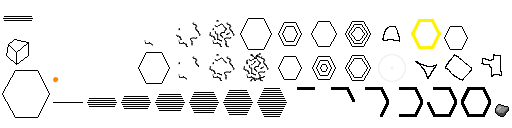
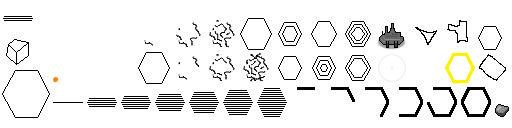
New mine graphic

Changed region(s): [[0.7188, 0.125, 0.9375, 0.4062], [0.8125, 0.375, 1.0, 0.6562], [0.9375, 0.1875, 0.9688, 0.2188]]

diff --git a/core/src/info/quadtree/ld42/Hex.java b/core/src/info/quadtree/ld42/Hex.java
@@ -6,7 +6,6 @@ import com.badlogic.gdx.graphics.Color;
 import com.badlogic.gdx.graphics.g2d.GlyphLayout;
 import com.badlogic.gdx.graphics.g2d.Sprite;
 import com.badlogic.gdx.math.MathUtils;
-import com.badlogic.gdx.math.Vector2;
 import info.quadtree.ld42.unit.Mine;
 import info.quadtree.ld42.unit.Unit;
 
@@ -35,24 +34,9 @@ public class Hex extends HexPos {
 
     int wiggleX, wiggleY;
 
-    Vector2 rockPos[];
-
     public Hex(int x, int y, int ttl){
         super(x, y);
         this.ttl = ttl;
-
-        rockPos = new Vector2[6];
-
-        rockPos[0] = new Vector2(8,6);
-        rockPos[1] = new Vector2(21,6);
-        rockPos[2] = new Vector2(5,16);
-        rockPos[3] = new Vector2(32 - 5,16);
-        rockPos[4] = new Vector2(8,32 - 6);
-        rockPos[5] = new Vector2(21,32 - 6);
-
-        for (int i=0;i<rockPos.length;++i){
-            rockPos[i].sub(16, 16);
-        }
     }
 
     public void render(){
@@ -66,7 +50,7 @@ public class Hex extends HexPos {
 
         float brightness = 1f;
 
-        /*Sprite sp5 = LD42.s.getSprite("hexborder");
+        Sprite sp5 = LD42.s.getSprite("hexborder");
         sp5.setColor(Color.WHITE);
         sp5.setBounds(sx, sy, HEX_SIZE, HEX_SIZE);
         sp5.draw(LD42.s.batch);
@@ -82,15 +66,6 @@ public class Hex extends HexPos {
             Sprite sp6 = LD42.s.getSprite("hexr2ein" + hexReinLevel);
             sp6.setColor(Color.WHITE);
             sp6.setBounds(sx, sy, HEX_SIZE, HEX_SIZE);
-            sp6.draw(LD42.s.batch);
-        }*/
-
-        int hexReinLevel = MathUtils.clamp(ttl / 5, 0, 3);
-
-        for (int i=0;i<hexReinLevel+1;++i){
-            Sprite sp6 = LD42.s.getSprite("rock1");
-            sp6.setColor(Color.WHITE);
-            sp6.setBounds(sx + rockPos[i].x + HEX_SIZE / 2f - 8, sy + rockPos[i].y + HEX_SIZE / 2f - 8, 16, 16);
             sp6.draw(LD42.s.batch);
         }
 

diff --git a/core/src/info/quadtree/ld42/unit/Unit.java b/core/src/info/quadtree/ld42/unit/Unit.java
@@ -68,8 +68,15 @@ public abstract class Unit {
 
         Sprite sp = LD42.s.getSprite(getMainGraphicName());
         sp.setBounds(currentScreenPos.x, currentScreenPos.y, Hex.HEX_SIZE, Hex.HEX_SIZE);
-        sp.setColor(team.getColor());
+        sp.setColor(Color.WHITE);
         sp.draw(LD42.s.batch);
+
+        if (getFlagGraphicName() != null){
+            Sprite sp4 = LD42.s.getSprite(getFlagGraphicName());
+            sp4.setBounds(currentScreenPos.x, currentScreenPos.y, Hex.HEX_SIZE, Hex.HEX_SIZE);
+            sp4.setColor(team.getColor());
+            sp4.draw(LD42.s.batch);
+        }
 
         if (isAccelerating && isAnimating()){
             Sprite sp2 = LD42.s.getSprite("landing_target");
@@ -160,6 +167,7 @@ public abstract class Unit {
     }
 
     public abstract String getMainGraphicName();
+    public String getFlagGraphicName(){ return null; }
 
     public static Unit factory(UnitType type){
         switch (type){

diff --git a/core/src/info/quadtree/ld42/unit/Mine.java b/core/src/info/quadtree/ld42/unit/Mine.java
@@ -20,4 +20,9 @@ public class Mine extends Unit {
     public int getCost() {
         return 15;
     }
+
+    @Override
+    public String getFlagGraphicName() {
+        return "mine1_flag";
+    }
 }
